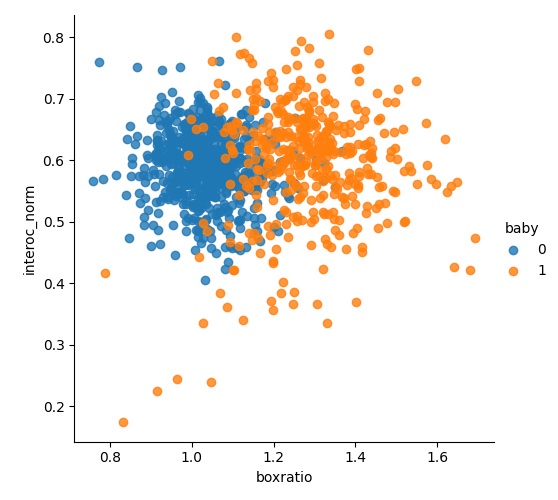
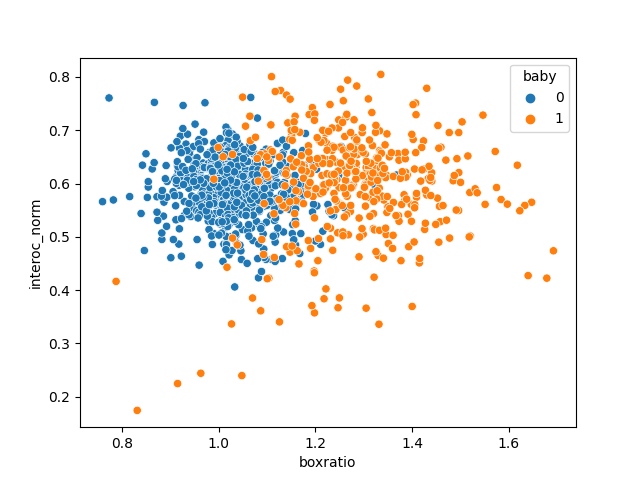
add plots and classification report

diff --git a/src/util/zw_svc_landmarks.py b/src/util/zw_svc_landmarks.py
@@ -11,7 +11,7 @@ import matplotlib.pyplot as plt
 
 # Get data
 df = pd.read_csv('data/merged_landmarks.csv')
-X_original = df.loc[:, 'x0':'y67']
+X_original = df.loc[:, 'norm_cenrot-x0':'norm_cenrot-y67']
 y = df.loc[:, 'baby']
 X_train, X_test, y_train, y_test = train_test_split(X_original, y,
 													test_size=0.33,
@@ -24,20 +24,21 @@ model_original = make_pipeline(pca_original, svc_original)
 
 param_grid_original = {'svc__C': [50, 100, 500, 1000],
 					   'svc__gamma': [0.0001, 0.0005, 0.001, 0.005],
-					   'pca__n_components': range(5, 50, 5),
+					   'pca__n_components': range(40, 70, 5),
 					   'svc__kernel': ['rbf','linear', 'poly']}
 
 grid_original = GridSearchCV(model_original, param_grid_original, return_train_score=True, n_jobs=5)
 grid_original.fit(X_train, y_train)
 
 print(grid_original.best_params_)
-print(f"best train score: {grid_original.best_score_:.3f}")
+print(f"best CV score on train set: {grid_original.best_score_:.3f}\n")
 
 # Predict
 model_best = grid_original.best_estimator_
 y_predict = model_best.predict(X_test)
 
 # Get classification report
+print('Classification report for best model:\n')
 print(classification_report(y_test, y_predict, target_names=['adult', 'infant']))
 
 # Plot confusion matrix
@@ -112,3 +113,41 @@ plt.fill_between(
 plt.legend(loc="best")
 plt.savefig('figs/SVC_vali_landmarks')
 plt.show()
+
+# Print classification report for n_components = 15
+pca_15 = PCA(whiten=True, random_state=42, n_components=15)
+svc_15 = SVC(kernel=best_params_['svc__kernel'],
+			   C=best_params_['svc__C'],
+			   gamma=best_params_['svc__gamma'])
+model_15 = make_pipeline(pca_15, svc_15)
+model_15.fit(X_train, y_train)
+y_predict_15 = model_15.predict(X_test)
+
+print('Classification report for n_components = 15:\n')
+print(classification_report(y_test, y_predict_15, target_names=['adult', 'infant']))
+
+
+# Print classification report for n_components = 5
+pca_5 = PCA(whiten=True, random_state=42, n_components=5)
+svc_5 = SVC(kernel=best_params_['svc__kernel'],
+			   C=best_params_['svc__C'],
+			   gamma=best_params_['svc__gamma'])
+model_5 = make_pipeline(pca_5, svc_5)
+model_5.fit(X_train, y_train)
+y_predict_5 = model_5.predict(X_test)
+
+print('Classification report for n_components = 5:\n')
+print(classification_report(y_test, y_predict_5, target_names=['adult', 'infant']))
+
+# Print classification report for n_components = 2
+pca_2 = PCA(whiten=True, random_state=42, n_components=2)
+svc_2 = SVC(kernel=best_params_['svc__kernel'],
+			   C=best_params_['svc__C'],
+			   gamma=best_params_['svc__gamma'])
+model_2 = make_pipeline(pca_2, svc_2)
+model_2.fit(X_train, y_train)
+y_predict_2 = model_2.predict(X_test)
+
+print('Classification report for n_components = 2:\n')
+print(classification_report(y_test, y_predict_2, target_names=['adult', 'infant']))
+

diff --git a/src/util/zw_svc_geometric_value.py b/src/util/zw_svc_geometric_value.py
@@ -1,3 +1,4 @@
+import numpy as np
 import pandas as pd
 from sklearn.metrics import classification_report, confusion_matrix
 from sklearn.pipeline import make_pipeline
@@ -17,24 +18,25 @@ X_train, X_test, y_train, y_test = train_test_split(X_geometric, y,
 # Train on geometric values
 svc_geometric = SVC(class_weight='balanced')
 
-model_original = make_pipeline(svc_geometric)
+model_geometric = make_pipeline(svc_geometric)
 
-param_grid_original = {'svc__C': [50, 100, 500, 1000],
+param_grid_geometric = {'svc__C': [50, 100, 500, 1000],
 					   'svc__gamma': [0.05, 0.1, 0.5, 1, 5],
 					   'svc__kernel': ['rbf','linear', 'poly']}
 
-grid_original = GridSearchCV(model_original, param_grid_original, return_train_score=True, n_jobs=5, refit=True)
-grid_original.fit(X_train, y_train)
+grid_geometric = GridSearchCV(model_geometric, param_grid_geometric, return_train_score=True, n_jobs=5, refit=True)
+grid_geometric.fit(X_train, y_train)
 
-best_params_ = grid_original.best_params_
+best_params_ = grid_geometric.best_params_
 print(best_params_)
-print(f"best train score: {grid_original.best_score_:.3f}")
+print(f"best train score: {grid_geometric.best_score_:.3f}\n")
 
 # Predict
-model = grid_original.best_estimator_
-y_predict = model.predict(X_test)
+model_best = grid_geometric.best_estimator_
+y_predict = model_best.predict(X_test)
 
 # Get classification report
+print('Classification report for model using geometric values:\n')
 print(classification_report(y_test, y_predict, target_names=['adult', 'infant']))
 
 # Plot confusion matrix
@@ -60,18 +62,31 @@ Support_vector_index = svc_trained.support_
 
 # Plot geometric values and support vectors
 X_geometric['baby'] = y
-sns.lmplot(data=X_geometric, x='boxratio', y='interoc_norm',
-		   hue='baby',
-		   legend=True,
-		   fit_reg=False)
+sns.scatterplot(data=X_geometric, x='boxratio', y='interoc_norm',
+				hue='baby',
+				legend=True)
 plt.savefig('figs/Geometric_values')
 plt.show()
 
-plt.scatter(X_train['boxratio'], X_train['interoc_norm'],
-			s=100,
-			c='k',
-			alpha=0.1,
-			linewidth=1.5,
-			edgecolor='red')
+support_vector = X_train.iloc[Support_vector_index][:]
+support_vector['baby'] = y_train.iloc[Support_vector_index][:]
+sns.scatterplot(data=support_vector, x='boxratio', y='interoc_norm',
+				hue='baby',
+				legend=True)
 plt.savefig('figs/Support_Vectors')
+plt.show()
+
+# Plot heatmap for geometric values
+interoc_norm = np.linspace(0.1, 0.9, 100)
+boxratio = np.linspace(0.7, 1.7, 100)
+heatmap = [['.'] * len(boxratio) for _ in range(len(interoc_norm))]
+
+for i in range(len(interoc_norm)):
+	for j in range(len(boxratio)):
+		heatmap[i][j] = model_best.predict([[boxratio[j], interoc_norm[i]]])[0]
+heatmap = pd.DataFrame(heatmap)
+
+sns.heatmap(data=heatmap,
+			cbar-False)
+plt.savefig('figs/SVC_meshgrid_of_geometric')
 plt.show()
